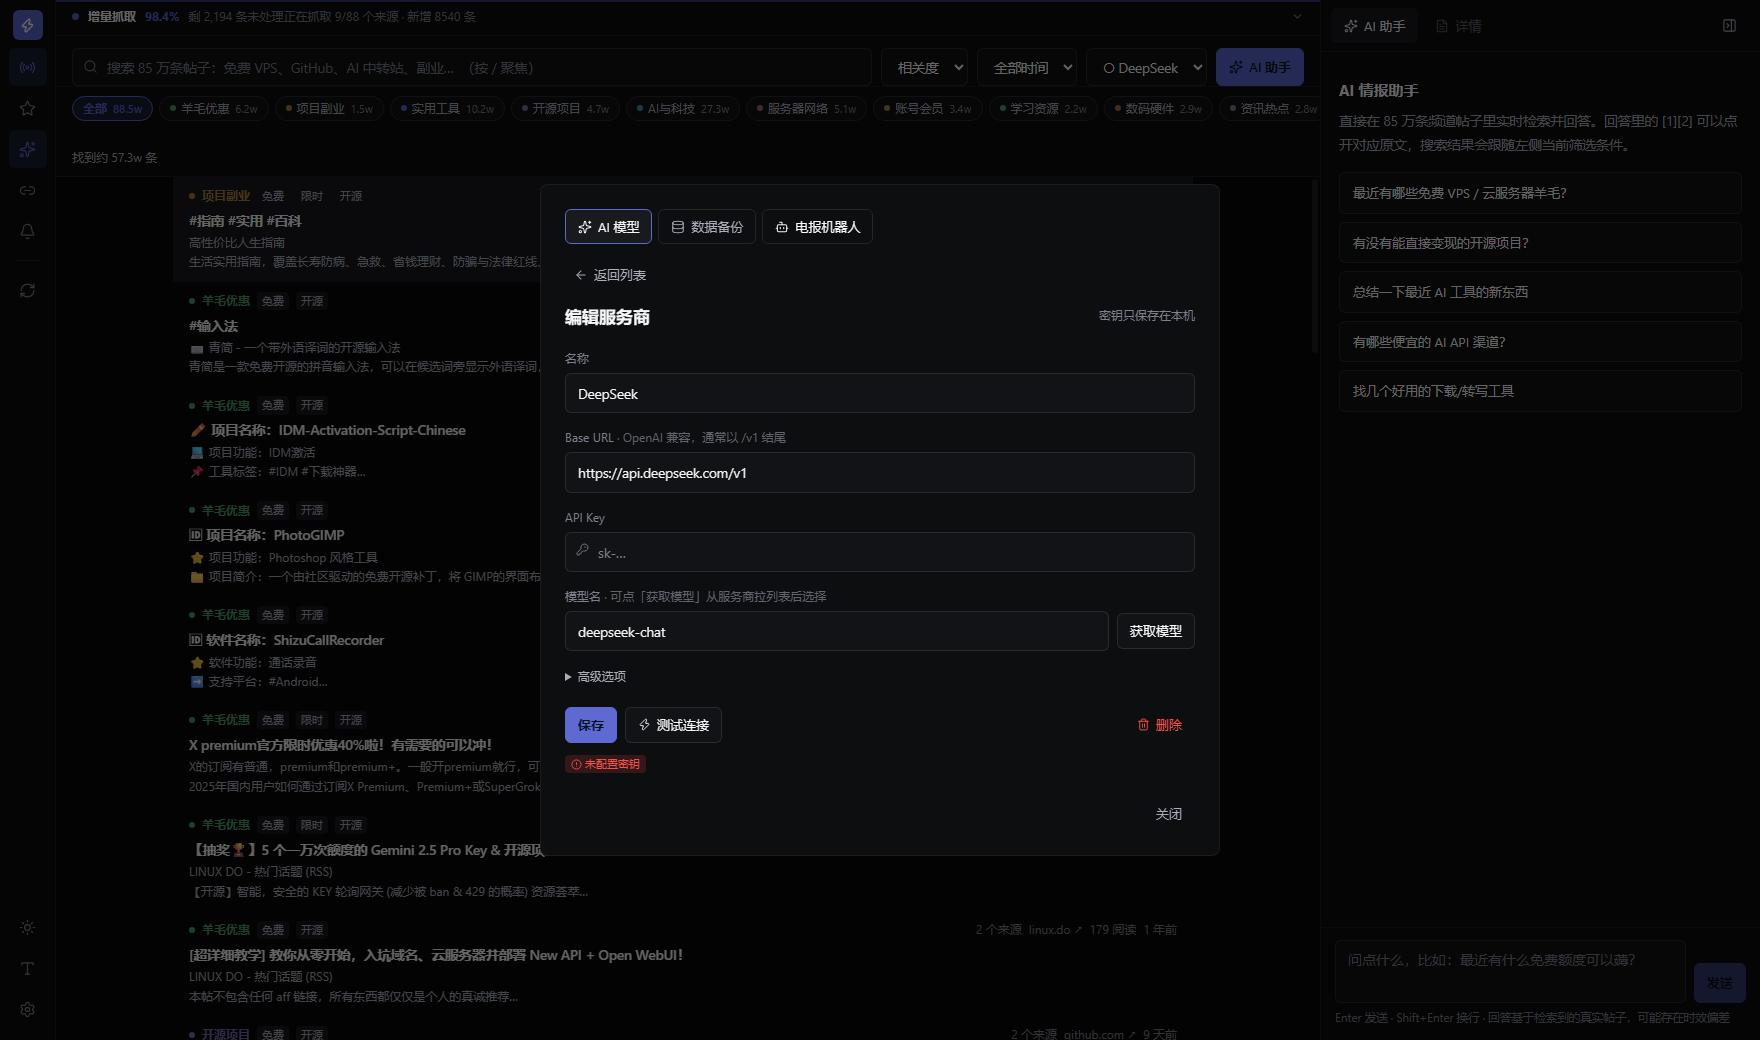
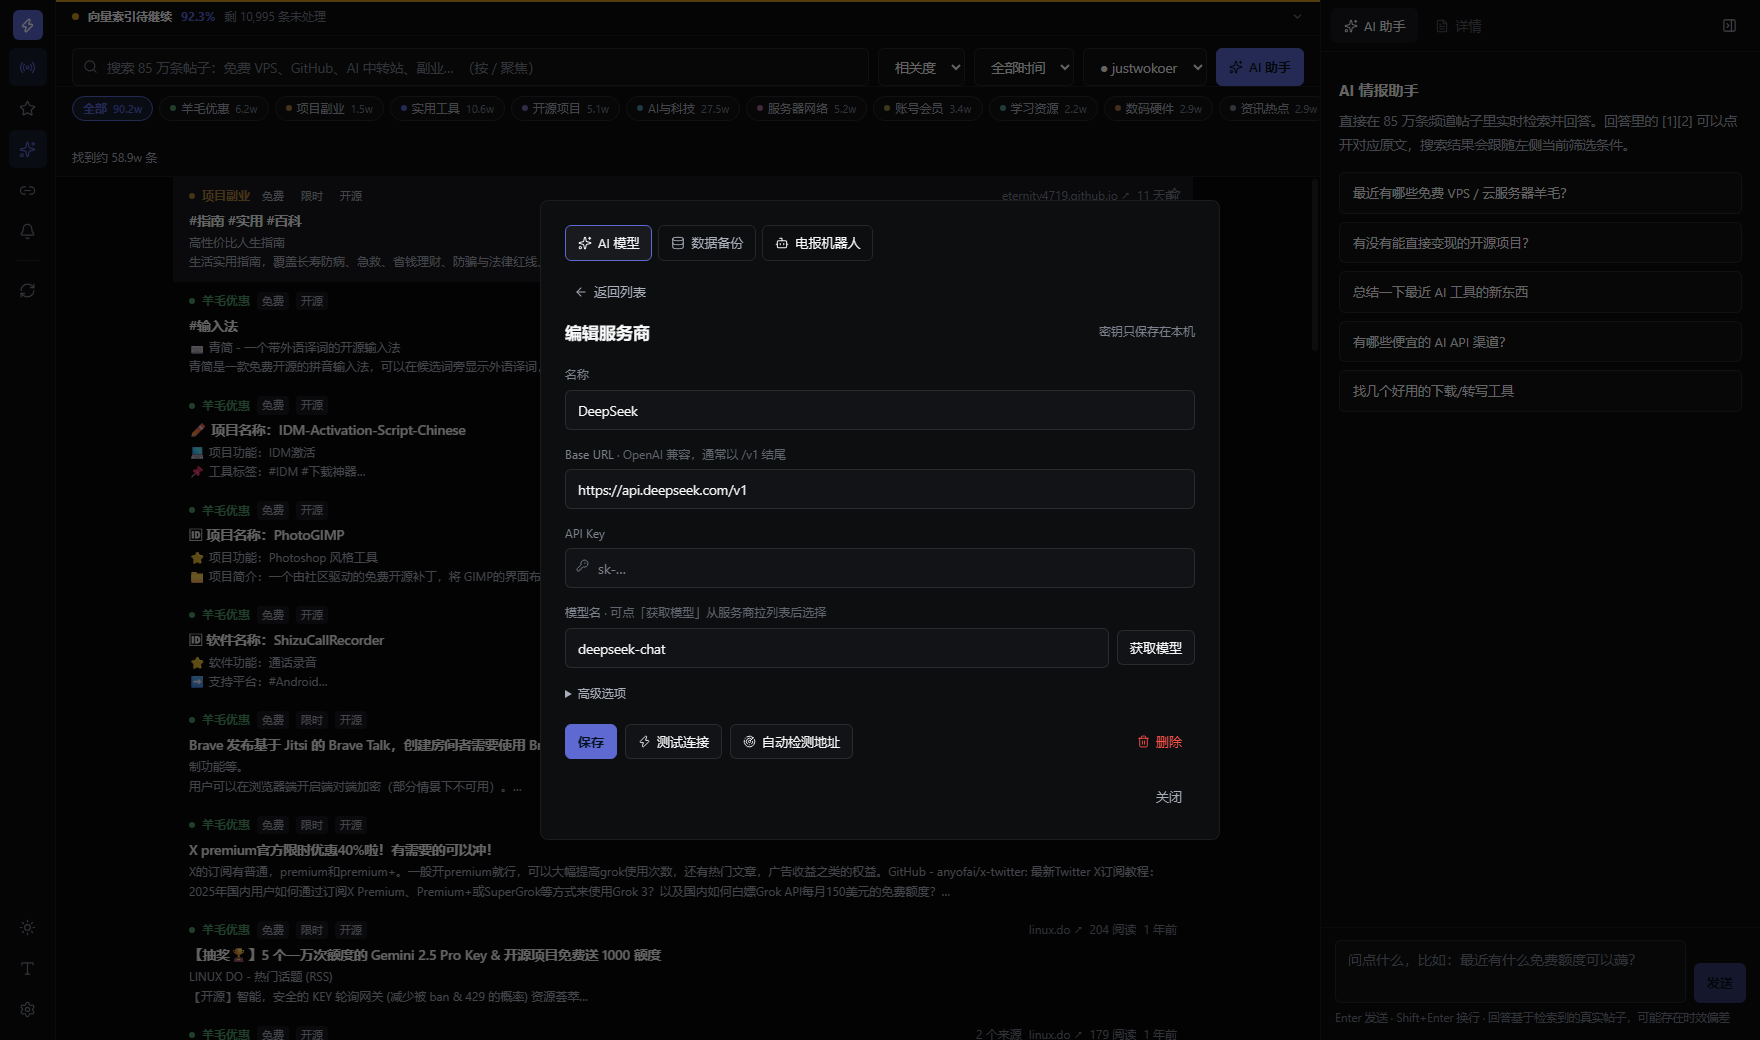
feat(settings): 借鉴 cc-switch 的端点探测机制 —— 换任何中转都能自动找到可用地址
【为什么去看它的源码】
你反馈 cc-switch 配这些模型从没出过问题。扒下来看，它的健壮性来自数据模型：

  endpointCandidates?: string[]       每个预设自带候选地址列表
  apiFormat: "anthropic" | "openai_chat"
           | "openai_responses" | "gemini_native"
  apiKeyField: "ANTHROPIC_AUTH_TOKEN" | "ANTHROPIC_API_KEY"
  modelsUrl?: string                  模型列表地址覆写；缺省时自动试
                                      /v1/models、/models 及剥离子路径的变体

实例（说明各家地址有多不统一）：
  https://api.zetaapi.ai                              根域名
  https://api.aicodemirror.ai/api/claudecode          带非标准子路径
  https://runapi.host + https://runapi.co             同一家两个候选
  ANTHROPIC_AUTH_TOKEN vs ANTHROPIC_API_KEY           鉴权字段名也不统一

结论：**它不猜，它逐个试。** 这正是我们缺的那一环。

【移植过来的东西】
1. endpointCandidates(baseUrl, preferredFormat)
   按「地址形态」分轮生成候选，两种协议**逐条交替**：
     {b}/v1/chat/completions → {b}/v1/messages → {b}/chat/completions → {b}/messages
     → {b}/api/claudecode/v1/messages → …（限 16 个）
   早先按协议分组（OpenAI 全试完才轮 Anthropic），实测要发 10 个无效请求；
   交替后**只发 1 个就命中**。

2. detectEndpoint(profile)
   用最小请求逐个探，返回第一个真正可用的地址 + 协议。
   能区分三种情况：返回网页（网关/防护拦）、HTTP 错误、结构不认识。
   若是 401/403，直接判定「地址通了但密钥或权限有问题」并停下 —— 这是有用信息。

3. **探测成功就把地址记下来**（profile.resolvedUrl + resolvedFormat），
   后续调用直连，不再逐个试。
   地址/模型/协议一旦改动，缓存自动失效重新探测。

4. 新路由 POST /api/settings/detect，界面加了「自动检测地址」按钮
   （编辑视图和列表卡片上都有），识别后卡片显示「地址已识别」标记。

【实测你的中转站】
  探测耗时 7.6s，无效请求 1 个，命中：
    https://api.justwoker.icu/v1/messages  (anthropic)
  探测过程可见：
    /v1/chat/completions → 返回网页（网关或防护拦截）
    /v1/messages         → 命中

【效果】
[…]

diff --git a/app/web/src/components/ModelSettings.tsx b/app/web/src/components/ModelSettings.tsx
@@ -1,14 +1,15 @@
 import { useEffect, useRef, useState } from 'react';
-import { getSettings, saveSettings, testSettings } from '../api';
+import { getSettings, saveSettings, testSettings, detectSettings } from '../api';
 import { ModelPicker } from './ModelPicker';
 import {
-  ArrowLeft, Check, Plus, Trash2, Pencil, Zap, Download, Upload, Loader2, AlertCircle, KeyRound,
+  ArrowLeft, Check, Plus, Trash2, Pencil, Zap, Download, Upload, Loader2, AlertCircle, KeyRound, Radar,
 } from 'lucide-react';
 
 type Profile = {
   id: string; name: string; baseUrl: string; model: string;
   apiKey?: string; hasKey?: boolean; keyHint?: string;
   headers?: string; apiFormat?: string; modelsUrl?: string;
+  resolvedUrl?: string; resolvedFormat?: string;
 };
 type Health = { state: 'idle' | 'testing' | 'ok' | 'fail'; ms?: number; error?: string };
 
@@ -77,6 +78,25 @@ export function ModelSettings({ onActiveChange }: { onActiveChange?: (id: string
     if (r.ok) setHealthFor(p.id, { state: 'ok', ms: (r.result && r.result.ms) || 0 });
     else setHealthFor(p.id, { state: 'fail', error: (r.error || '未知错误').slice(0, 80) });
     return r.ok;
+  }
+
+  // 自动探测接口地址：中转站地址形态五花八门（根域名 / 要补 /v1 / 带 /api/claudecode），
+  // 与其让用户猜，不如逐个探一遍，找到能用的那个并记住。
+  async function autoDetect(p: Profile) {
+    if (!p.baseUrl) { setMsg({ kind: 'err', text: '请先填写 Base URL' }); return; }
+    if (!p.model) { setMsg({ kind: 'err', text: '请先填写模型名' }); return; }
+    setHealthFor(p.id, { state: 'testing' });
+    setMsg({ kind: 'info', text: '正在逐个探测可用地址…' });
+    const payload: any = { baseUrl: p.baseUrl, model: p.model, apiFormat: p.apiFormat || 'openai', headers: p.headers };
+    if (p.apiKey) payload.apiKey = p.apiKey;
+    const r = await detectSettings(payload);
+    if (r.ok) {
+      setHealthFor(p.id, { state: 'ok', ms: 0 });
+      setMsg({ kind: 'ok', text: '找到可用地址：' + r.url + '（' + (r.format === 'anthropic' ? 'Anthropic' : 'OpenAI') + ' 协议），已记住' });
+    } else {
+      setHealthFor(p.id, { state: 'fail', error: '未找到可用地址' });
+      setMsg({ kind: 'err', text: (r.hint || '未找到可用地址') + '  试过：' + (r.tried || []).slice(0, 4).join('；') });
+    }
   }
 
   async function testAll() {
@@ -222,10 +242,18 @@ export function ModelSettings({ onActiveChange }: { onActiveChange?: (id: string
               </button>
             );
           })()}
+          <button className="btn" disabled={!!(health[p.id] && health[p.id].state === 'testing')} onClick={() => autoDetect(p)} title="逐个探测可用的接口地址与协议">
+            <Radar size={13} strokeWidth={1.75} />自动检测地址
+          </button>
           <span style={{ flex: 1 }} />
           {exists && <button className="btn ghost" style={{ color: 'var(--rose)' }} onClick={() => { remove(p); setEditing(null); setView('list'); }}><Trash2 size={13} strokeWidth={1.75} />删除</button>}
         </div>
         {health[p.id] && <div style={{ marginTop: 10 }}><StatusBadge id={p.id} /></div>}
+        {p.resolvedUrl && (
+          <div style={{ marginTop: 10, fontSize: 'var(--fs-micro)', color: 'var(--fg-mute)' }}>
+            已识别地址：<code>{p.resolvedUrl}</code>
+          </div>
+        )}
       </div>
     );
   }
@@ -279,11 +307,13 @@ export function ModelSettings({ onActiveChange }: { onActiveChange?: (id: string
                   <span className="mp-name">{p.name}</span>
                   {on && <span className="mp-cur">当前</span>}
                   {!p.hasKey && !p.apiKey && <span className="mp-nokey">未配密钥</span>}
+                  {p.resolvedUrl && <span className="mp-ok-url" title={'已自动识别：' + p.resolvedUrl}>地址已识别</span>}
                   <StatusBadge id={p.id} />
                 </div>
                 <div className="mp-sub">{(p.model || '未填模型') + ' · ' + (p.baseUrl ? p.baseUrl.replace(/^https?:\/\//, '') : '未填地址')}</div>
               </div>
               <div style={{ display: 'flex', gap: 2, flexShrink: 0 }} onClick={e => e.stopPropagation()}>
+                <button className="btn ghost iconbtn" title="自动检测地址" onClick={() => autoDetect(p)}><Radar size={13} strokeWidth={1.75} /></button>
                 <button className="btn ghost iconbtn" title="测速" onClick={() => testOne(p)}><Zap size={13} strokeWidth={1.75} /></button>
                 <button className="btn ghost iconbtn" title="编辑" onClick={() => startEdit(p)}><Pencil size={13} strokeWidth={1.75} /></button>
                 <button className="btn ghost iconbtn" title="删除" style={{ color: 'var(--rose)' }} onClick={() => remove(p)}><Trash2 size={13} strokeWidth={1.75} /></button>

diff --git a/app/web/src/api.ts b/app/web/src/api.ts
@@ -69,6 +69,12 @@ export async function testSettings(payload: any): Promise<{ ok: boolean; error?:
   return r.json();
 }
 
+// 自动探测可用的接口地址与协议（中转站地址形态不一，靠逐个试更省心）
+export async function detectSettings(payload: any): Promise<{ ok: boolean; url?: string; format?: string; hint?: string; tried?: string[] }> {
+  const r = await fetch('/api/settings/detect', { method: 'POST', headers: { 'Content-Type': 'application/json' }, body: JSON.stringify(payload) });
+  return r.json();
+}
+
 export type ChatHandlers = {
   onStatus?: (stage: string) => void;
   onSources?: (items: any[]) => void;

diff --git a/app/web/src/index.css b/app/web/src/index.css
@@ -171,6 +171,10 @@ body {
   font-size: var(--fs-micro); padding: 0 5px; border-radius: var(--r-sm);
   background: var(--accent-soft); color: var(--accent); font-weight: 600;
 }
+.mp-ok-url {
+  font-size: var(--fs-micro); padding: 0 5px; border-radius: var(--r-sm);
+  background: color-mix(in srgb, var(--accent) 16%, transparent); color: var(--accent);
+}
 .mp-nokey {
   font-size: var(--fs-micro); padding: 0 5px; border-radius: var(--r-sm);
   background: color-mix(in srgb, var(--amber) 16%, transparent); color: var(--amber);
